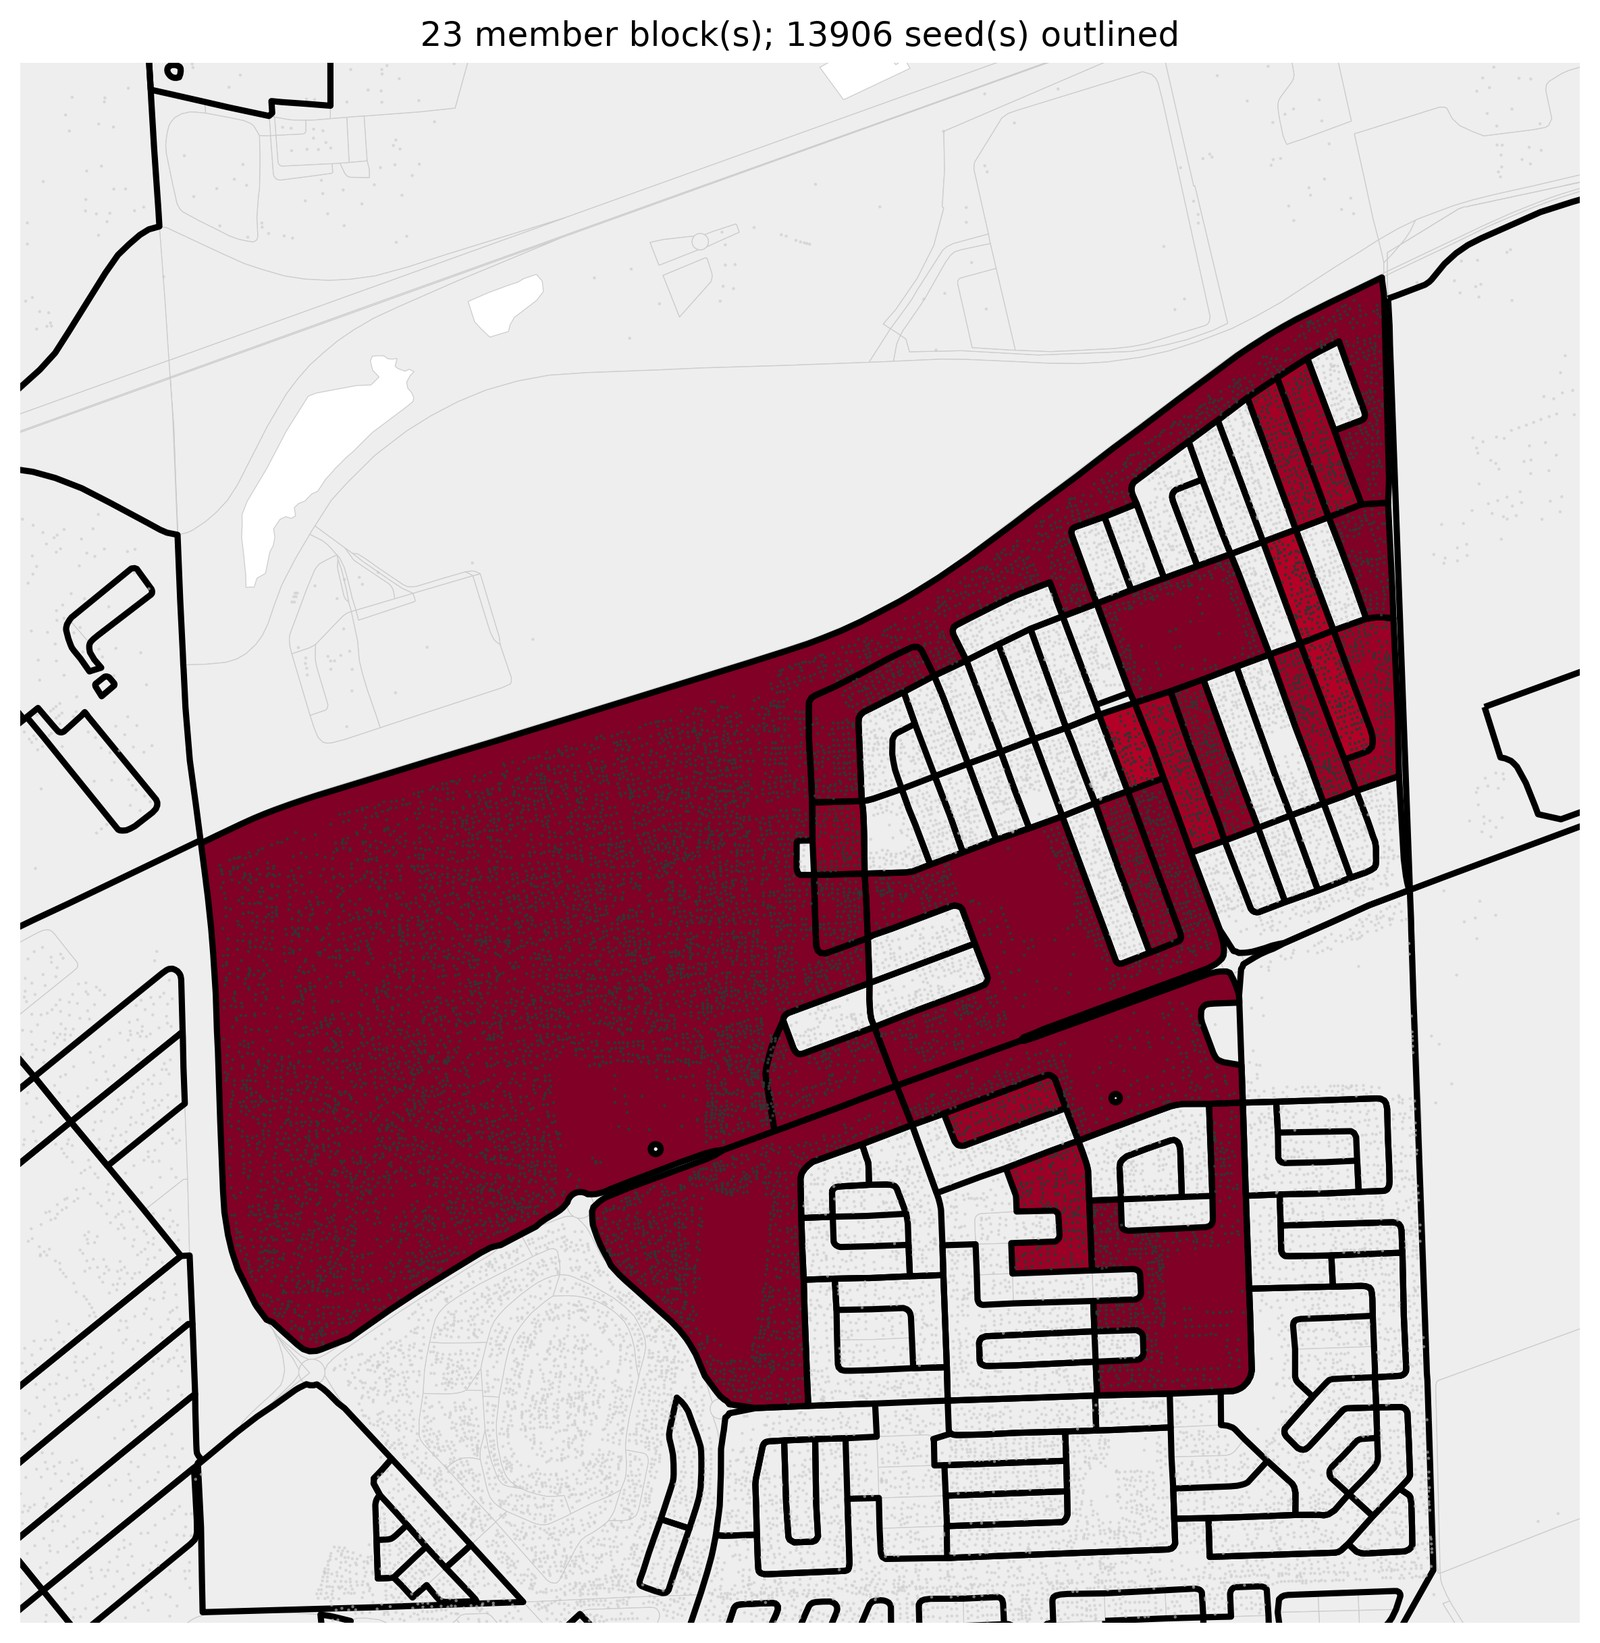
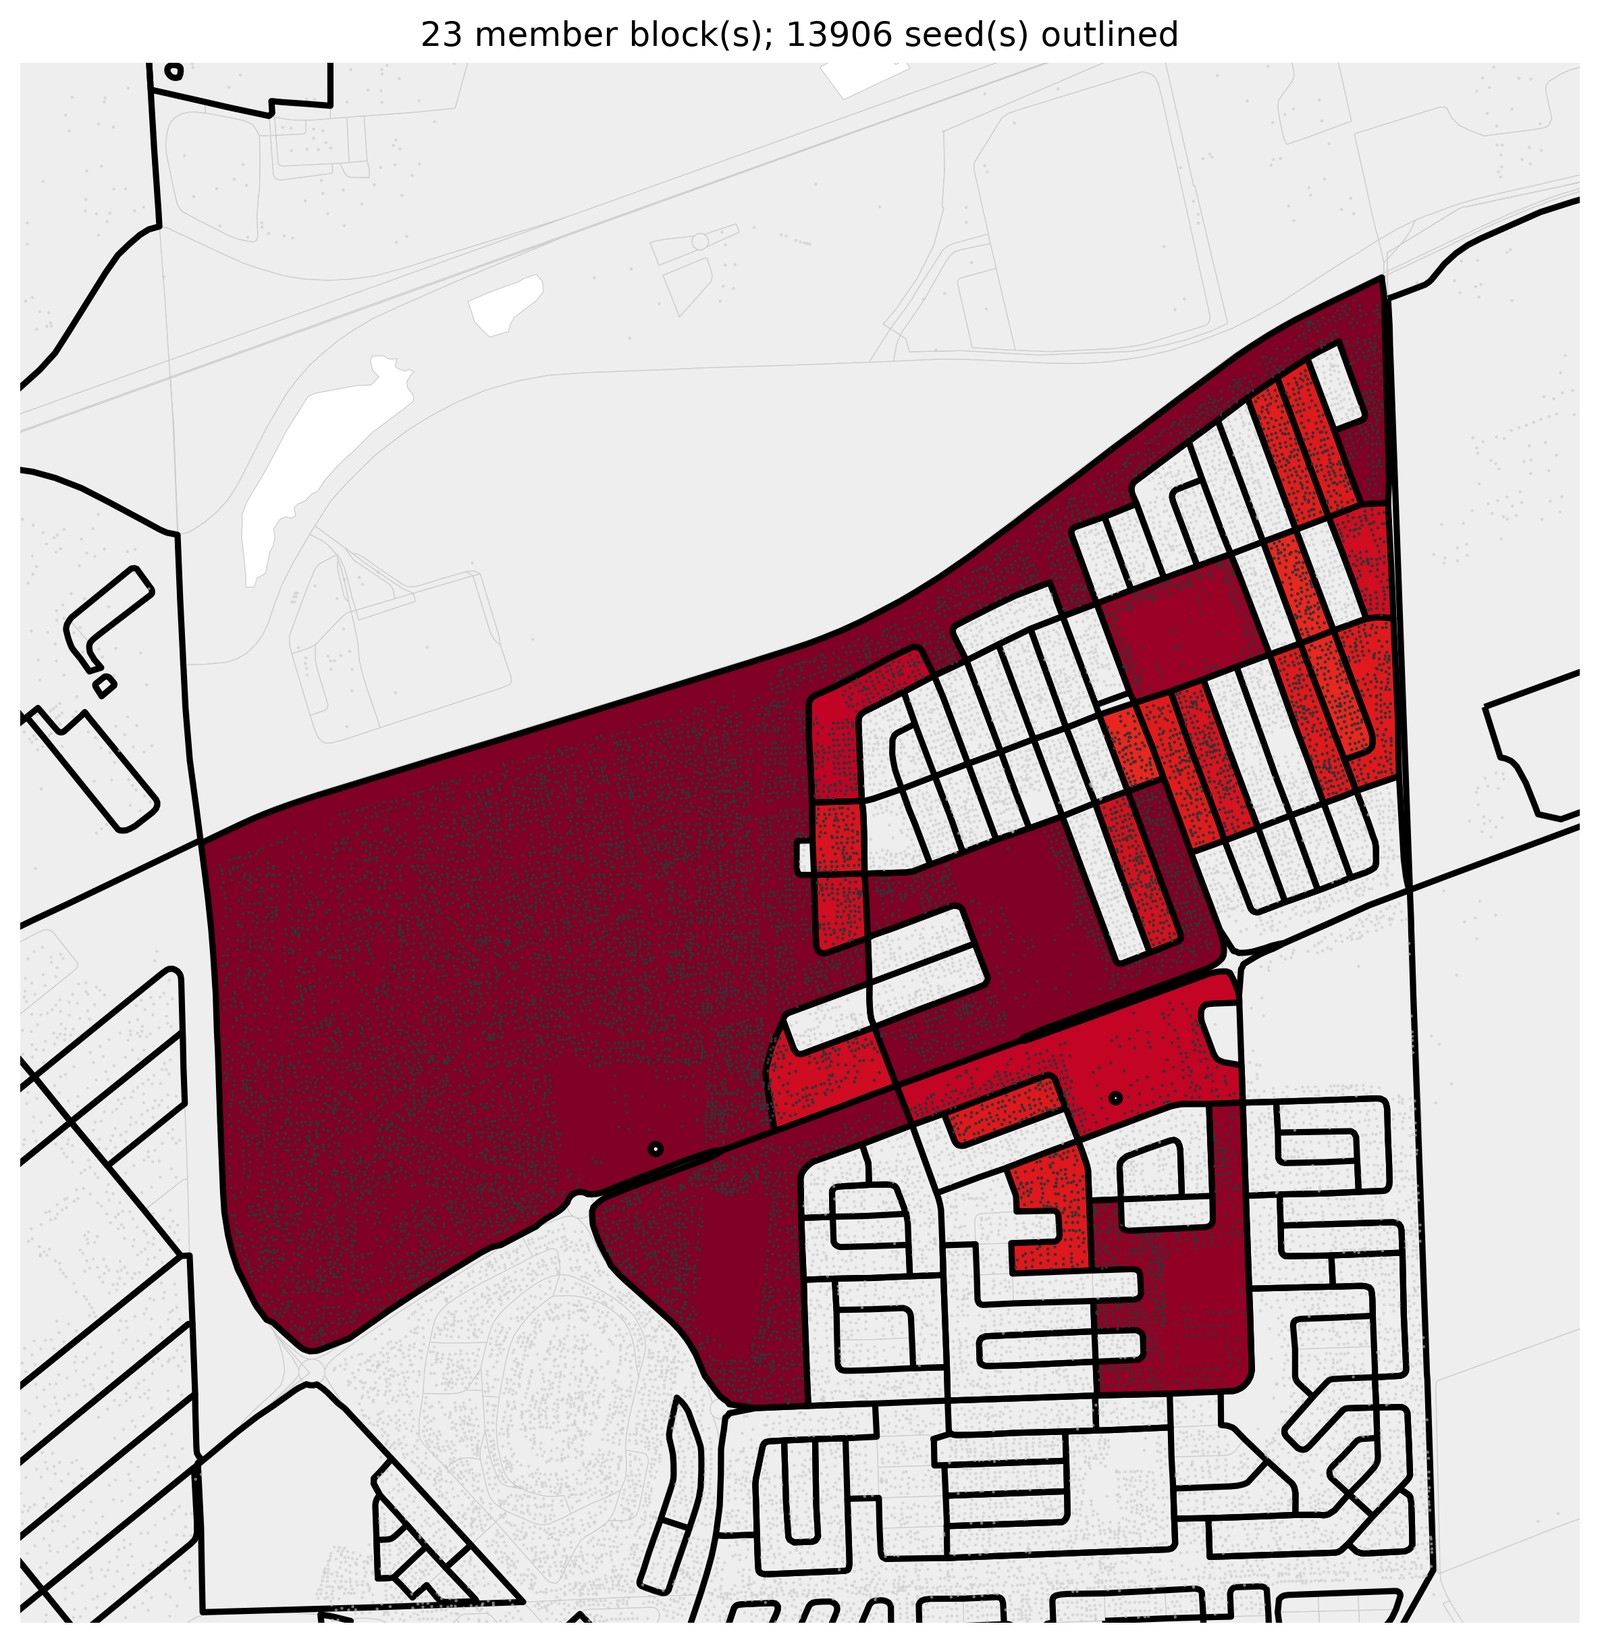
fix: cap the screen depth-proxy choropleth at p99, not p97
The proxy is heavy-tailed, so a p97 vmax saturated most of the metro at the top
of the colour scale (a near-uniform sea of red). Cap at p99 so the map shows
real light-to-dark gradation and the deep informal fabric stands out. Refresh
the clearance-flagship screen.jpg/region.jpg.

Claude-Session: https://claude.ai/code/session_0125mCca6BQaTXiLZPMyFa8x

Changed region(s): [[0.4688, 0.2173, 0.875, 0.776], [0.5, 0.4035, 0.5938, 0.5898]]

diff --git a/src/reblock/emit.py b/src/reblock/emit.py
@@ -147,7 +147,9 @@ def region_map(source: Source, regions: list[list[str]],
         area = geoms["block_area_m2"] if "block_area_m2" in geoms.columns else utm.geometry.area
         perim = utm.geometry.length
         geoms["proxy"] = np.sqrt(geoms["building_count"] * area) / perim.where(perim > 0)
-        vmax = float(geoms["proxy"].quantile(0.97)) or 1.0   # robust cap; ignore outliers
+        # Cap high (p99, not p97): the proxy is heavy-tailed, so a lower cap saturates most of the
+        # metro at max colour; p99 keeps the deep fabric standing out against a paler background.
+        vmax = float(geoms["proxy"].quantile(0.99)) or 1.0
     members = geoms[geoms["block_id"].isin(all_member_ids)]
     seeds = geoms[geoms["block_id"].isin(all_seed_ids)]
     frame = frame_bbox(members.geometry) if not members.empty else None
